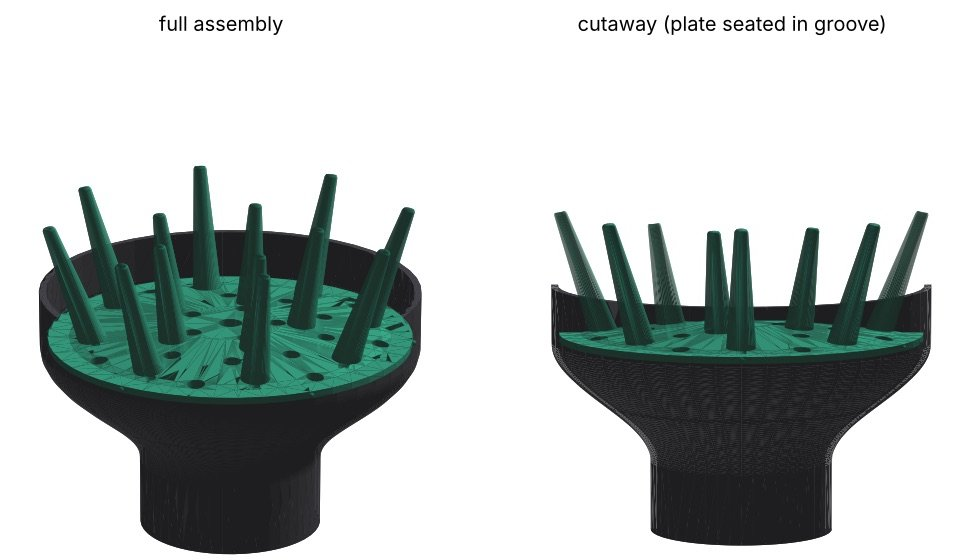
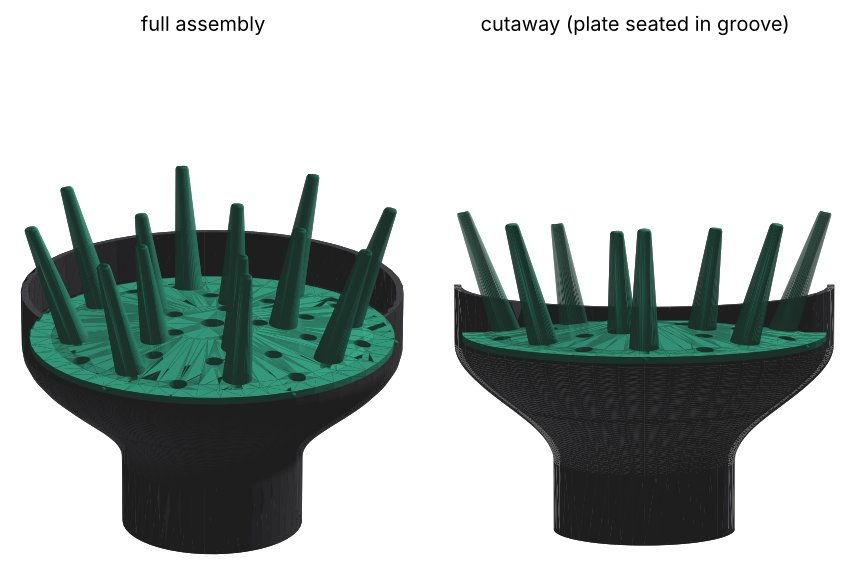
Uncropped CAD render; iMessage assistant diagram and description; click-to-enlarge diagrams

diff --git a/projects.html b/projects.html
@@ -5,7 +5,7 @@
   <meta name="viewport" content="width=device-width, initial-scale=1">
   <title>Projects · Tairan Habib</title>
   <meta name="description" content="Projects by Tairan Habib: robotics, PCBs, web apps, and more.">
-  <link rel="stylesheet" href="style.css?v=22">
+  <link rel="stylesheet" href="style.css?v=23">
 </head>
 <body data-page="projects">
 
@@ -48,7 +48,7 @@
       </div>
     </div>
     <div class="item">
-      <img class="shot" src="images/cad.jpg?v=2" alt="3D render of a printable blow-dryer diffuser: full assembly and cutaway">
+      <img class="shot" src="images/cad.jpg?v=3" alt="3D render of a printable blow-dryer diffuser: full assembly and cutaway">
       <div class="info">
         <div class="meta"><h3>Parametric CAD Designs</h3><span class="date">2026</span></div>
         <div class="sub">OpenSCAD · CadQuery · PETG/ASA</div>
@@ -82,14 +82,15 @@
       </div>
     </div>
     <div class="item">
+      <a class="shot zoomable" href="images/ai-assistant.jpg" target="_blank" rel="noopener" title="Open full size"><img src="images/ai-assistant.jpg" alt="System architecture diagram of the iMessage personal assistant"></a>
       <div class="info">
-        <div class="meta"><h3>Text-Based AI Assistant</h3><span class="date">Fall 2026 – now</span></div>
-        <div class="sub">In progress · Self-hosted</div>
-        <p>An assistant that manages my calendar, to-dos, reminders, and syllabus deadlines over text message.</p>
+        <div class="meta"><h3>iMessage Personal Assistant</h3><span class="date">Sep 2026</span></div>
+        <div class="sub">Python · MCP · Hermes Agent · Node · Ubuntu</div>
+        <p>One iMessage thread over my calendar, inbox, to-do list, news, and weather. A self-hosted agent talks to a custom MCP tool server I wrote in Python, with 24 tools for things like loading a whole syllabus into my task list or sending a morning brief. Composite tools cut the brief from 12 model calls to 2, so it all runs on free tiers for $0 a month.</p>
       </div>
     </div>
     <div class="item">
-      <img class="shot" src="images/supplier-heatmap.jpg?v=2" alt="Heatmap of supplier turnaround times by customer site, with anonymized names and values">
+      <a class="shot zoomable" href="images/supplier-heatmap.jpg?v=2" target="_blank" rel="noopener" title="Open full size"><img src="images/supplier-heatmap.jpg?v=2" alt="Heatmap of supplier turnaround times by customer site, with anonymized names and values"></a>
       <div class="info">
         <div class="meta"><h3>Supplier Turnaround Heatmaps</h3><span class="date">Summer 2024</span></div>
         <div class="sub">R · tidyverse · ggplot2 · Pratt &amp; Whitney</div>
@@ -118,6 +119,6 @@
       </div>
     </div>
   </main>
-  <script src="paint.js?v=22"></script>
+  <script src="paint.js?v=23"></script>
 </body>
 </html>

diff --git a/experience.html b/experience.html
@@ -5,7 +5,7 @@
   <meta name="viewport" content="width=device-width, initial-scale=1">
   <title>Experience · Tairan Habib</title>
   <meta name="description" content="Experience of Tairan Habib: research labs, robotics startups, and internships.">
-  <link rel="stylesheet" href="style.css?v=22">
+  <link rel="stylesheet" href="style.css?v=23">
 </head>
 <body data-page="experience">
 
@@ -60,6 +60,6 @@
     <h2>Activities &amp; Awards</h2>
     <p>I'm VP of Big Events for SAAS at MIT and Risk Manager for Phi Delta Theta. Before MIT, I volunteered as a technology assistant at the New Britain Public Library and tutored SAT math and reading on Schoolhouse.world. I was a National Finalist in the ACS Chemistry Olympiad and Samsung Solve for Tomorrow, and won 1st place at the CCSU Engineering Design Competition.</p>
   </main>
-  <script src="paint.js?v=22"></script>
+  <script src="paint.js?v=23"></script>
 </body>
 </html>

diff --git a/index.html b/index.html
@@ -5,7 +5,7 @@
   <meta name="viewport" content="width=device-width, initial-scale=1">
   <title>Tairan Habib</title>
   <meta name="description" content="Tairan Habib — EECS student at MIT building robots, circuit boards, and control systems.">
-  <link rel="stylesheet" href="style.css?v=22">
+  <link rel="stylesheet" href="style.css?v=23">
 </head>
 <body data-page="about">
 
@@ -29,6 +29,6 @@
       </div>
     </div>
   </main>
-  <script src="paint.js?v=22"></script>
+  <script src="paint.js?v=23"></script>
 </body>
 </html>

diff --git a/draw.html b/draw.html
@@ -5,11 +5,11 @@
   <meta name="viewport" content="width=device-width, initial-scale=1">
   <title>Draw · Tairan Habib</title>
   <meta name="description" content="A blank MS Paint canvas. Draw something.">
-  <link rel="stylesheet" href="style.css?v=22">
+  <link rel="stylesheet" href="style.css?v=23">
 </head>
 <body data-page="draw">
 
   <main aria-label="Blank drawing canvas"></main>
-  <script src="paint.js?v=22"></script>
+  <script src="paint.js?v=23"></script>
 </body>
 </html>

diff --git a/style.css b/style.css
@@ -344,3 +344,5 @@ ul.tags li { border: 2px solid var(--ink); padding: 4px 14px; font-size: 16px; }
 
 /* project title row: name left, date right */
 .page-projects .info .meta { align-items: baseline; }
+.page-projects .item > a.shot img { display: block; width: 100%; height: auto; }
+.page-projects .item > a.shot { cursor: zoom-in; }
